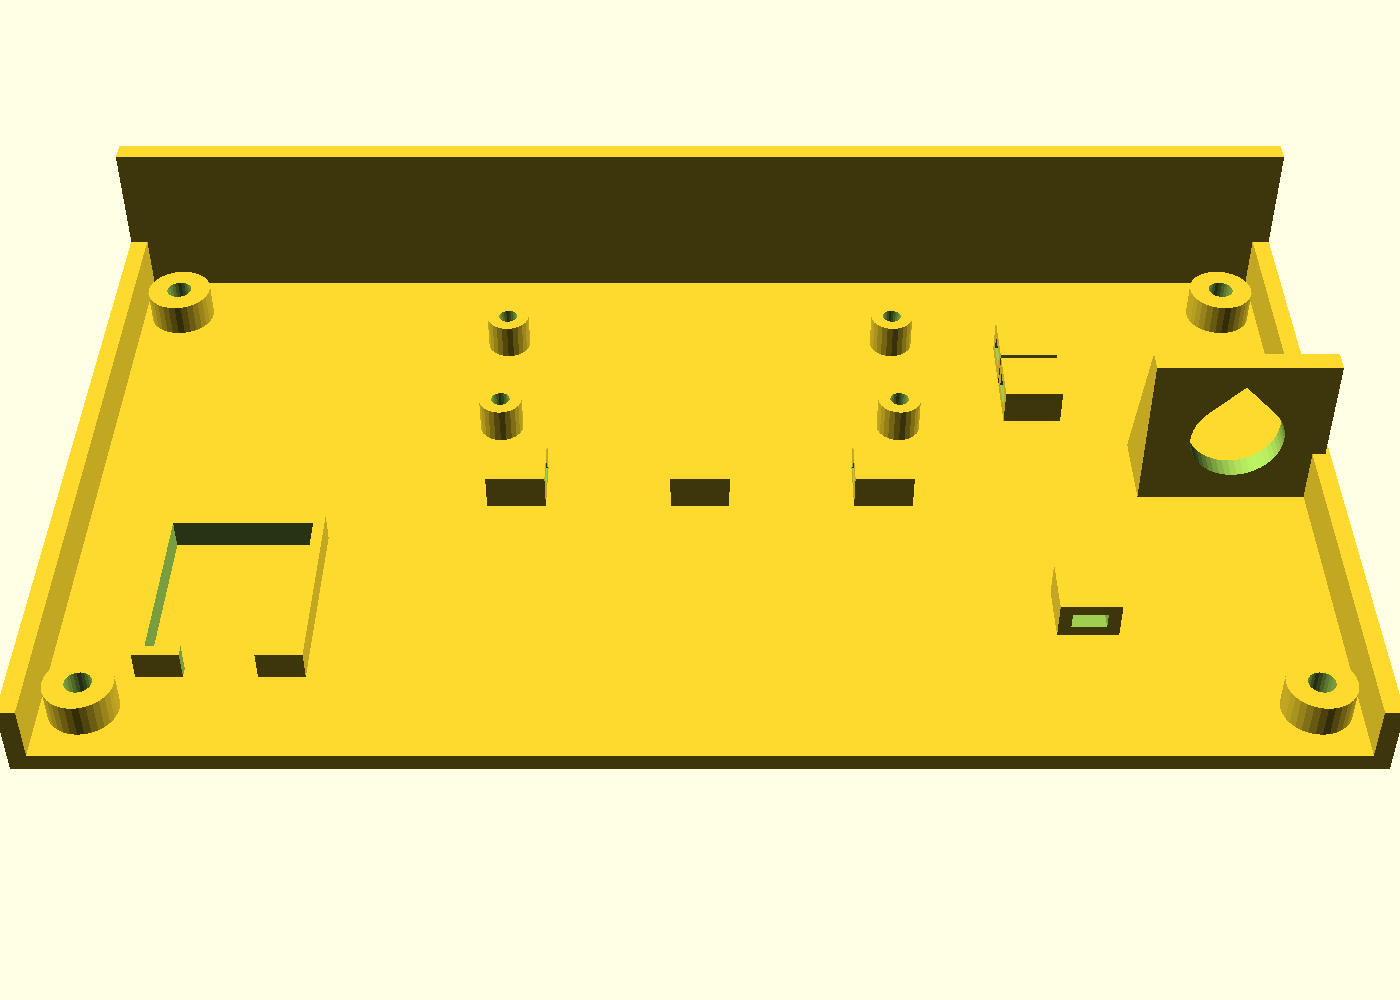
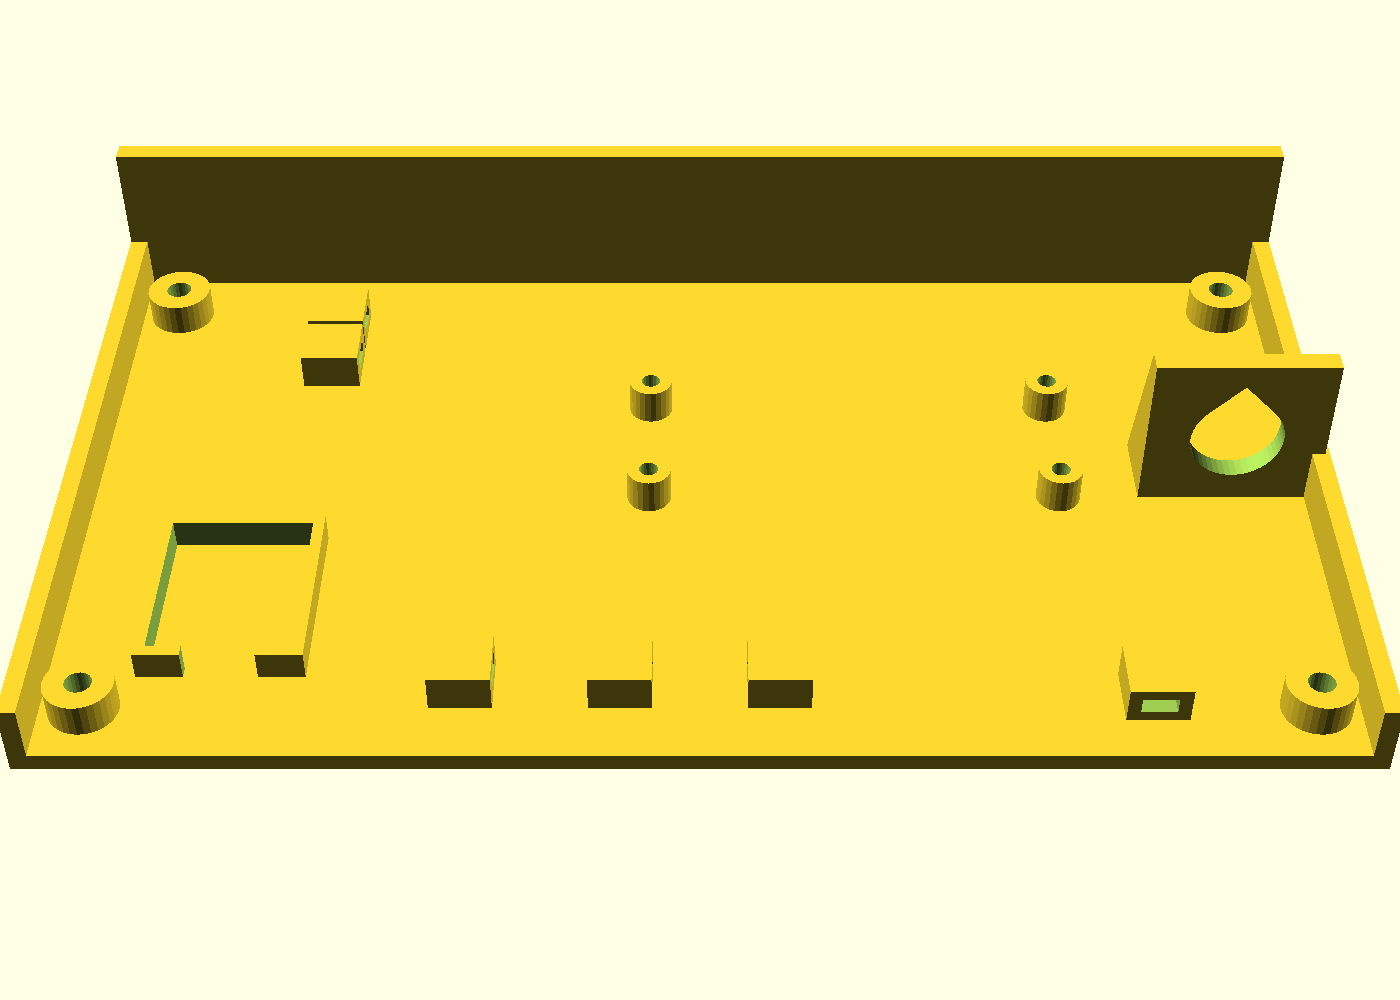
Tacka elektroniki v2: układ uzgodniony z elektroniką (PCA9685 listwami do przodu pod otwór, zacisk z tyłu przy gnieździe, ESP z przodu po lewej, rezystor z tyłu po lewej, opaski); rysunek układu
Wymiary płytek i gniazda nadal do pomiaru (nie drukować). Siatka OK, kolizje: pusto.

diff --git a/20-analizy/2026-10-25-podstawka-model.md b/20-analizy/2026-10-25-podstawka-model.md
@@ -318,3 +318,12 @@ Wykonano (agent):
 **Założenia do pomiaru przez użytkownika (zmienne w `podstawka.scad`):** gwint gniazda `gnGwintD` 12, grubość ścianki pod nakrętkę `gnT` 3, nakrętka `gnNakS` 16, kołnierz `gnKolD` 18, korpus za ścianką `gnKorpL` 30; PCA9685 (płytka 62 × 25, otwory 55,9 × 19,05), ESP32-C3 (22,5 × 18).
 
 Kontrole: siatka tacki 0 błędów, 1 bryła, 170 × 100 × 25; kolizje szufladki zamkniętej i wsuwania z tacką: pusto.
+
+**Układ tacki po zdjęciu PCA9685 użytkownika (HW-170), uzgodniony z elektroniką 26.10** (rysunek `40-cad/openscad/podglad/podstawka-v2-kaseta-uklad.png`):
+- otwór Ø60 w płycie (tuleja, skrętki) jest nad przodem tacki z lewej (x 33–93, y −24…36 w układzie tacki) – elektronika zakładała tuleję z tyłu; poprawione za jej zgodą;
+- PCA9685 x 75–137, y 45–70 (`pcaX0`, `pcaY0`): listwy kanałów do przodu (skrętki do otworu), przed listwą wolne 25 (`pcaPrzod`: kondensator 1000 µF i przewody 5 V na kanałach 8–11), zacisk V+/GND z tyłu – ok. 5 cm przewodu od gniazda (koniec korpusu gniazda x 157, y ok. 81);
+- ESP32-C3 z przodu po lewej (ramka jak v1), USB-C do przodu; I²C do lewej listwy sterującej PCA;
+- rezystor 3 W z tyłu po lewej (x 32, y 68–93) na 2 uchwytach z tunelem na opaskę;
+- uchwyty opasek: 3 na skrętki pod otworem w płycie (y 12; x 55 / 75 / 95), 1 na przewód PIR przy wejściu z szufladki (x 142, y 10), poza strefą wtyku C–C (x 150–164);
+- nad PCA9685 do płyty ok. 31 mm (wtyki Dupont i gięcie ok. 25).
+Kontrole: siatka OK, kolizje szufladki z tacką: pusto. Wymiary płytek i gniazda nadal do pomiaru.
